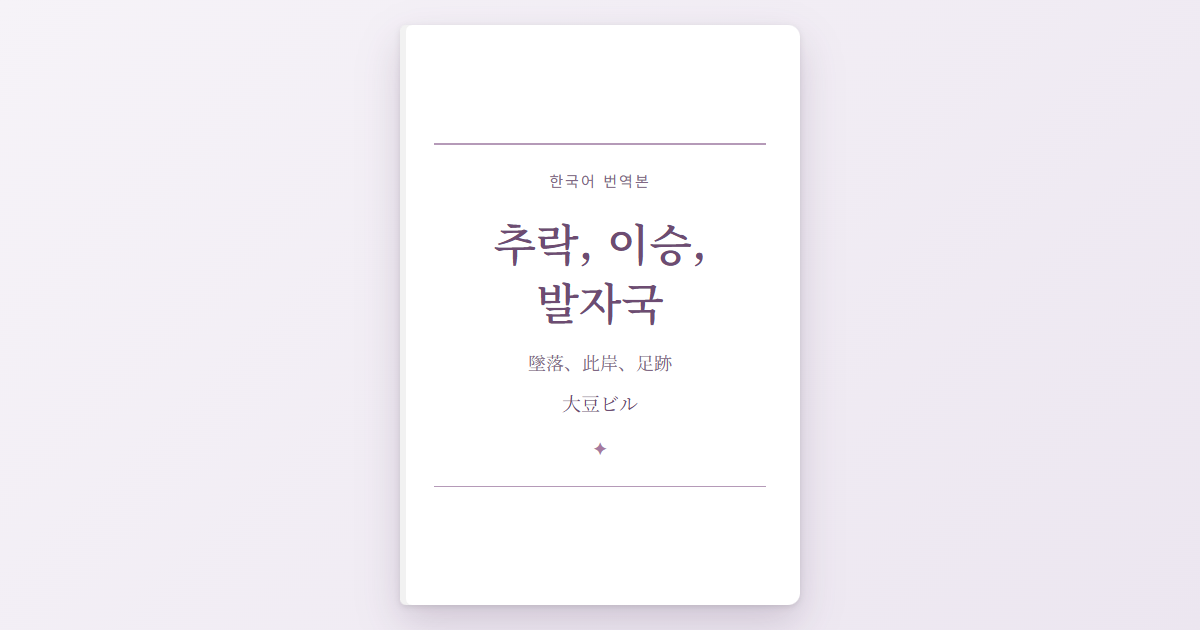
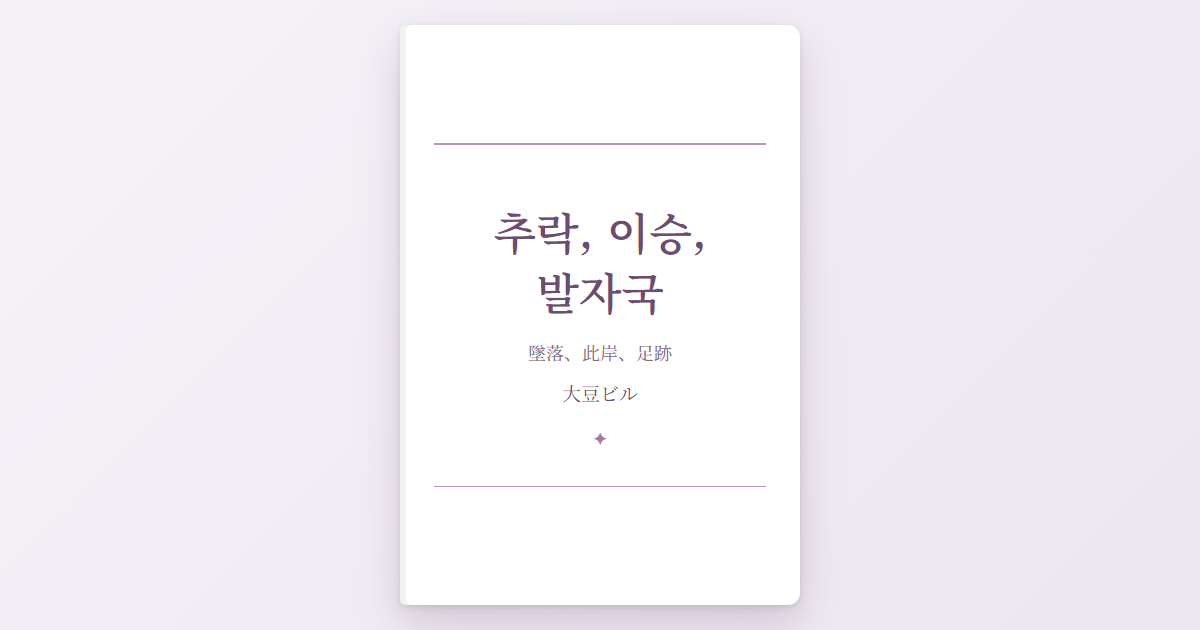
'한국어 번역본' 문구 지움(전자책 표지, 서재 책 카드, 공유 표지 그림)
- 사용자 요청 "한국어 번역본 저 문구를 다 지우고 싶어"
- 홈페이지판 EPUB 68240fae…: 표지 쪽의 '한국어 번역본' 줄만 뺌(바뀐 항목은 cover.xhtml과 content.opf)
- 서재 책 카드(shelf.js)와 공유 표지 그림(covers/fall.png)에서도 뺌. index.html의 shelf.js에 ?v=20261008-s1

diff --git a/assets/shelf.js b/assets/shelf.js
@@ -25,7 +25,6 @@ const renderBook = book => {
   const started = saved && typeof saved.fraction === 'number' && saved.fraction > 0.005
 
   const cover = el('a', { class: 'cover', href, style: `--book-accent:${book.accent || '#6d4c72'}`, 'aria-label': `${book.title} 읽기` },
-    el('span', { class: 'cover-edition' }, '한국어 번역본'),
     el('span', { class: 'cover-title' }, book.title),
     el('span', { class: 'cover-author', lang: 'ja' }, book.author))
 

diff --git a/index.html b/index.html
@@ -11,7 +11,7 @@
 <link rel="stylesheet" href="https://fonts.googleapis.com/css2?family=Noto+Serif+KR:wght@400;600&display=swap">
 <link rel="icon" href="assets/icon.svg" type="image/svg+xml">
 <link rel="stylesheet" href="assets/style.css">
-<script src="assets/shelf.js" defer></script>
+<script src="assets/shelf.js?v=20261008-s1" defer></script>
 </head>
 <body>
 <main class="shelf-page">
